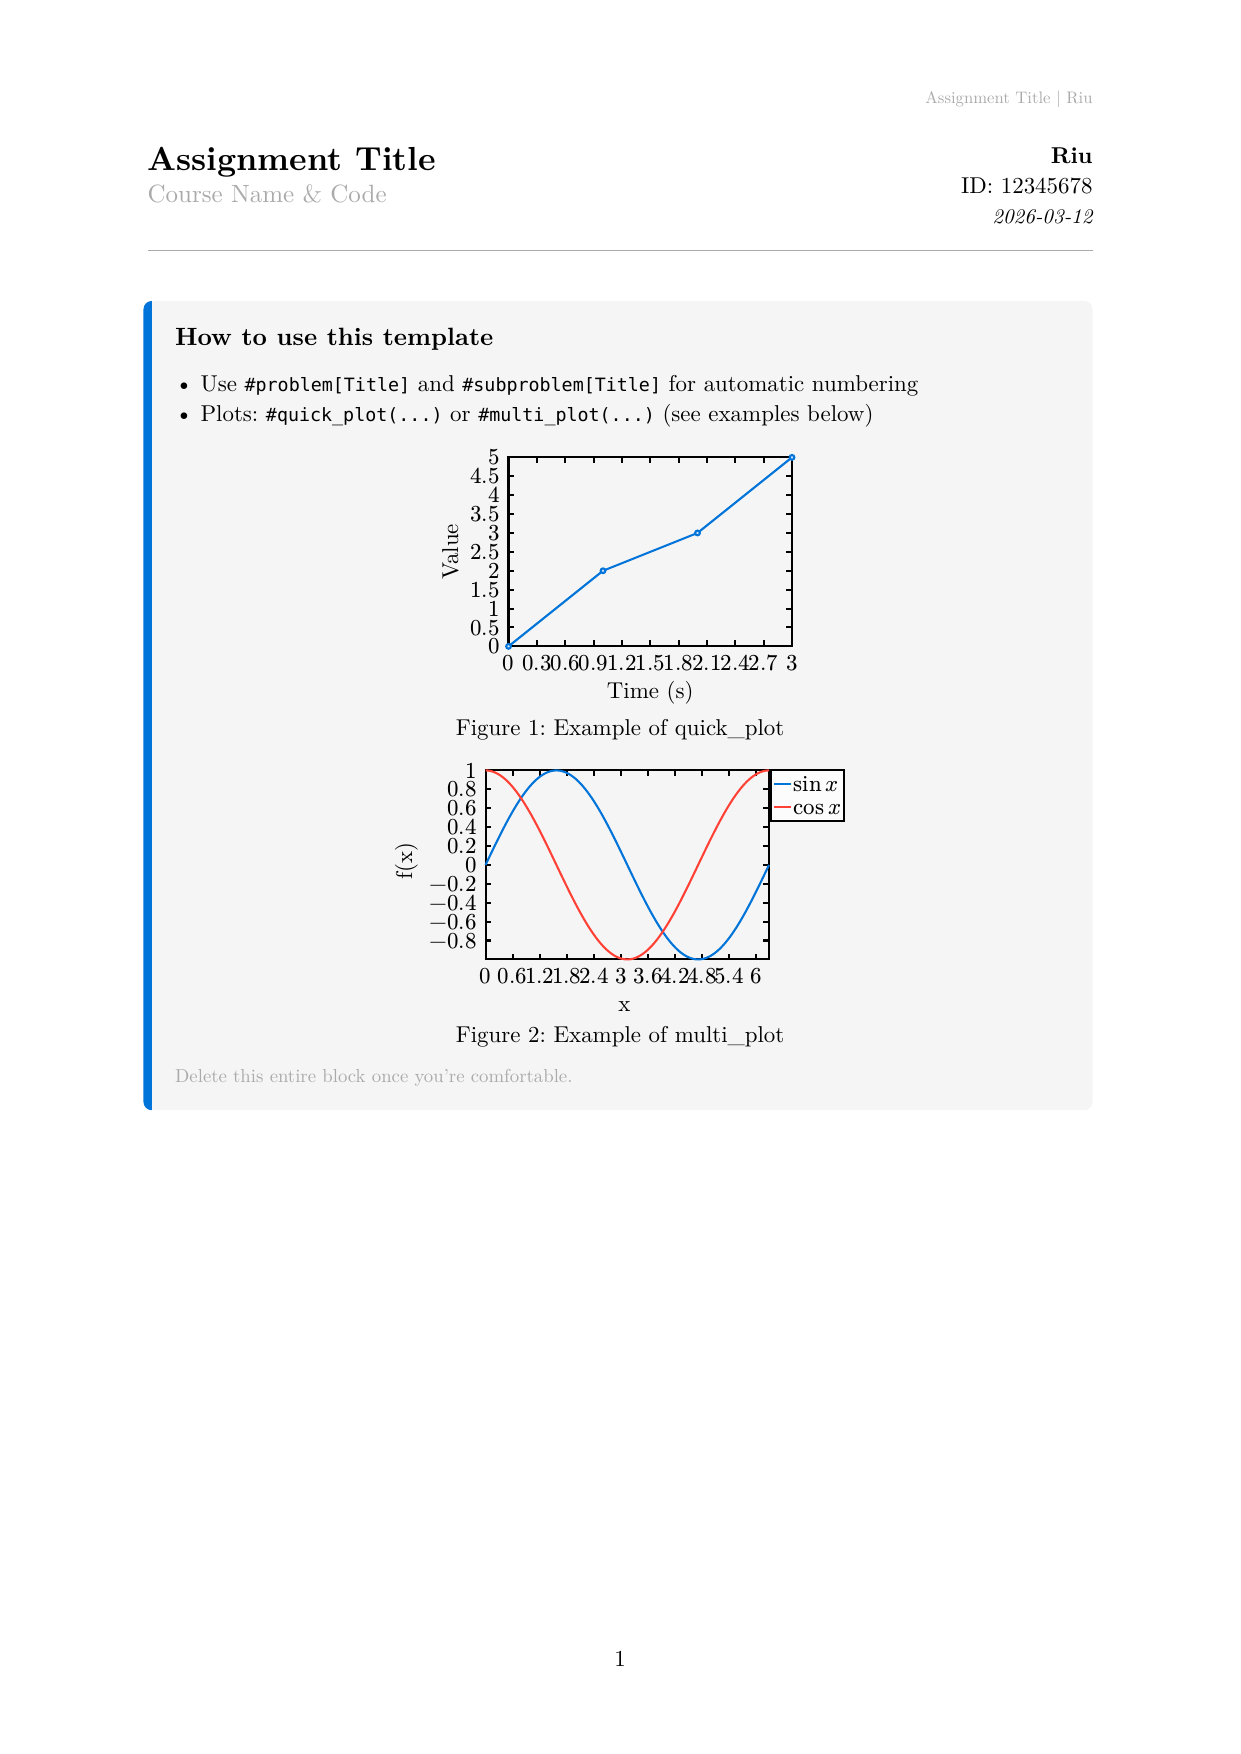
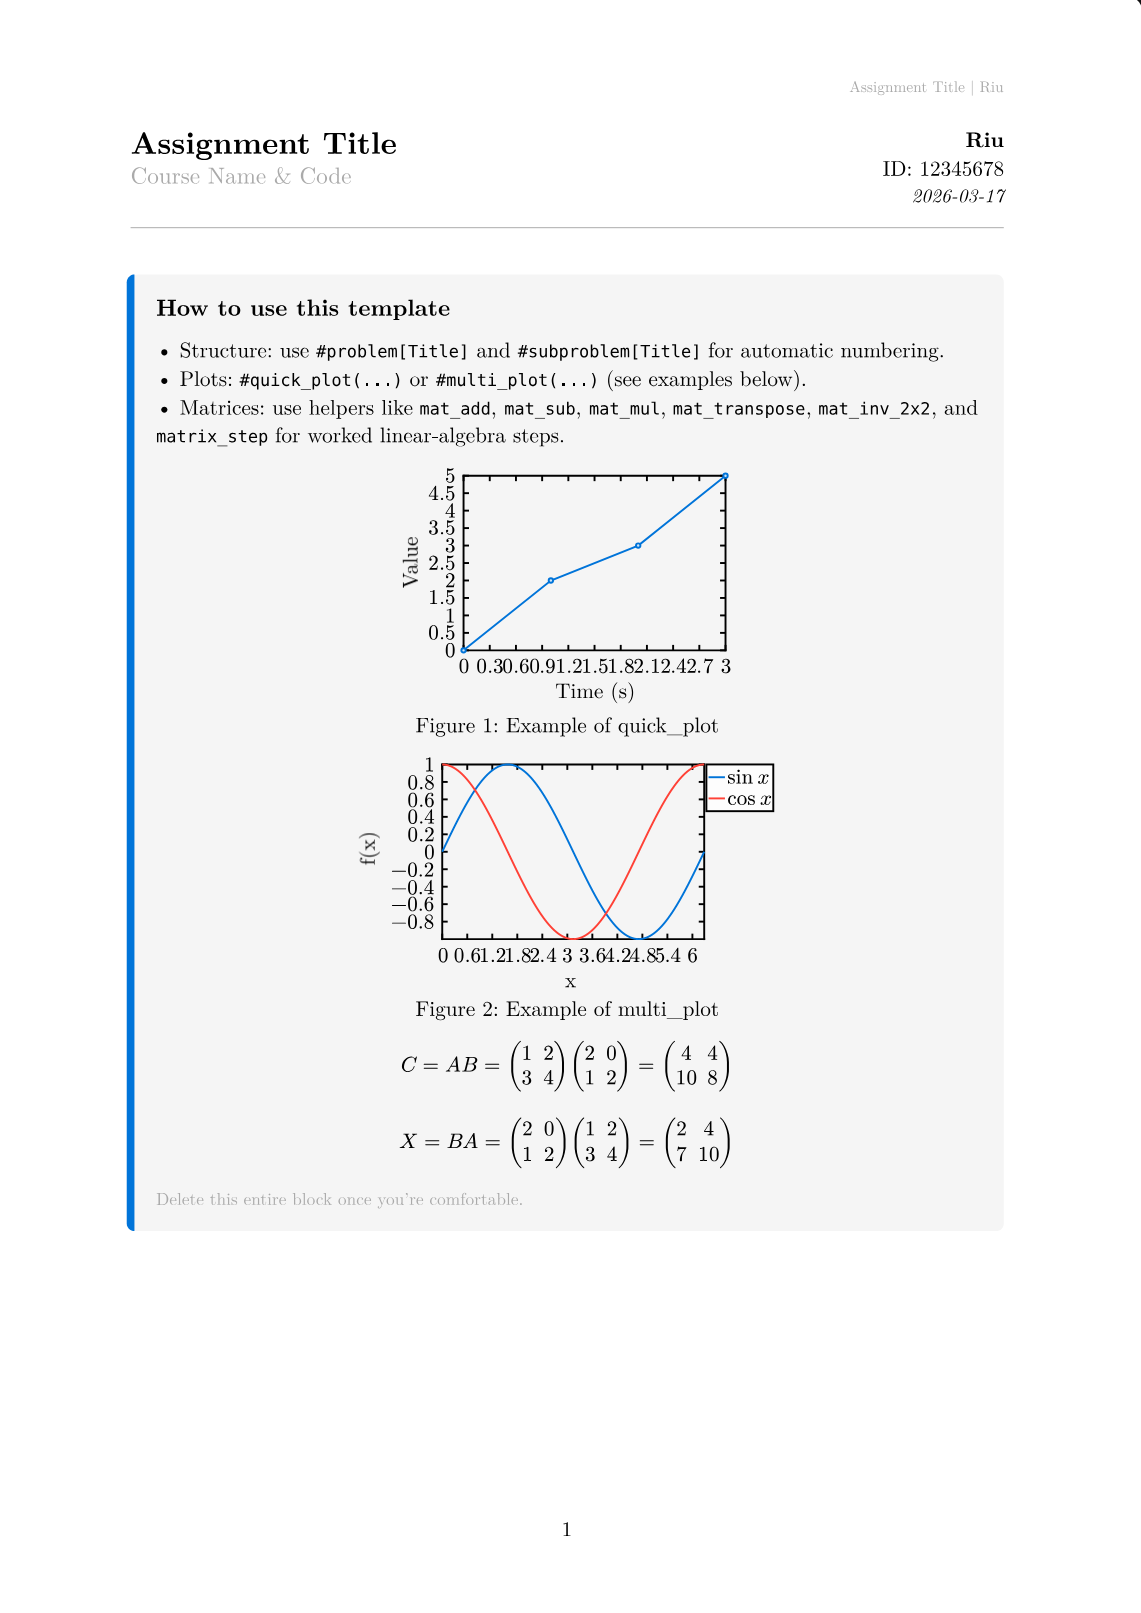
docs: enhance README with matrix calculation helpers and examples; update lib.typ for rounding in matrix operations

diff --git a/README.md b/README.md
@@ -78,7 +78,65 @@ The assignment template provides a document layout and helpers for typed assignm
 **Template files**
 
 - Compile `template/main.typ` to build a document. It uses `info.typ` for your personal metadata (author, student ID, course, optional date); edit `info.typ` (or a copy like `info.typ.example`) with your details.
-- The template’s quick-start prompt at the top of `main.typ` shows example usage of `problem`, `subproblem`, plotting helpers, and can be extended with matrix examples using `matrix_step`.
+- The template’s quick-start prompt at the top of `main.typ` shows example usage of `problem`, `subproblem`, plotting helpers, and matrix helpers via `matrix_step`.
+
+### Matrix calculation helpers
+
+After importing the package:
+
+```typ
+import "@local/assignment_template:0.1.0": *
+```
+
+you can use the matrix helpers directly in your solutions.
+
+**Supported operations (`lib.typ`)**
+
+- **Element-wise addition**: `mat_add(A, B)` – only if A and B have exactly the same shape.
+- **Element-wise subtraction**: `mat_sub(A, B)` – only if A and B have exactly the same shape.
+- **Matrix multiplication**: `mat_mul(A, B)` – allowed whenever the number of columns of A equals the number of rows of B.
+- **Element-wise application of a scalar function**: `mat_apply(A, f)` – applies `f` to every entry of A.
+- **Scalar multiplication**: `mat_scale(k, A)` – multiplies every entry of A by the scalar `k`.
+- **Row-wise softmax**: `mat_softmax(A)` – for each row, applies `exp` and normalizes by the row sum.
+- **Transpose**: `mat_transpose(A)` – works for any rectangular matrix.
+- **2×2 inverse**: `mat_inv_2x2(A)` – only defined for 2×2 matrices with non-zero determinant.
+- **Activation functions on scalars**: `relu(x)`, `sigmoid(x)`.
+- **Rounding**: `round_mat(A, dp: 4)` – rounds every entry to `dp` decimal places.
+
+**Unified step display with `matrix_step`**
+
+`matrix_step` wraps the above operations and produces both:
+
+- `content`: a formatted Typst math equation for the derivation.
+- `data`: the resulting numeric matrix.
+
+Supported `op` values and their meaning:
+
+- `"+"` – uses `mat_add(m1, m2)`.
+- `"-"` – uses `mat_sub(m1, m2)`.
+- `"*"` or `""` – uses `mat_mul(m1, m2)`.
+- `"scale"` – uses `mat_scale(k, m1)` (scalar `k` required).
+- `"transpose"` or `"T"` – uses `mat_transpose(m1)`.
+- `"inv"` – uses `mat_inv_2x2(m1)` (2×2 only).
+- `"relu"` – applies `relu` element-wise via `mat_apply`.
+- `"sigmoid"` – applies `sigmoid` element-wise via `mat_apply`.
+- `"softmax"` – uses `mat_softmax(m1)` (row-wise).
+- `"sinh"`, `"cosh"`, `"tanh"` – uses `calc.sinh`, `calc.cosh`, or `calc.tanh` element-wise via `mat_apply`.
+
+Example:
+
+```typ
+// 2×2 matrices
+let A = ((1, 2), (3, 4))
+let B = ((2, 0), (1, 2))
+
+// Single documented step: C = A · B
+let step = matrix_step(A, B) // defaults: op: "*", n1: "A", n2: "B", target: "C"
+$ step.content $
+
+// Numeric result matrix
+let C = step.data
+```
 
 ## License
 
